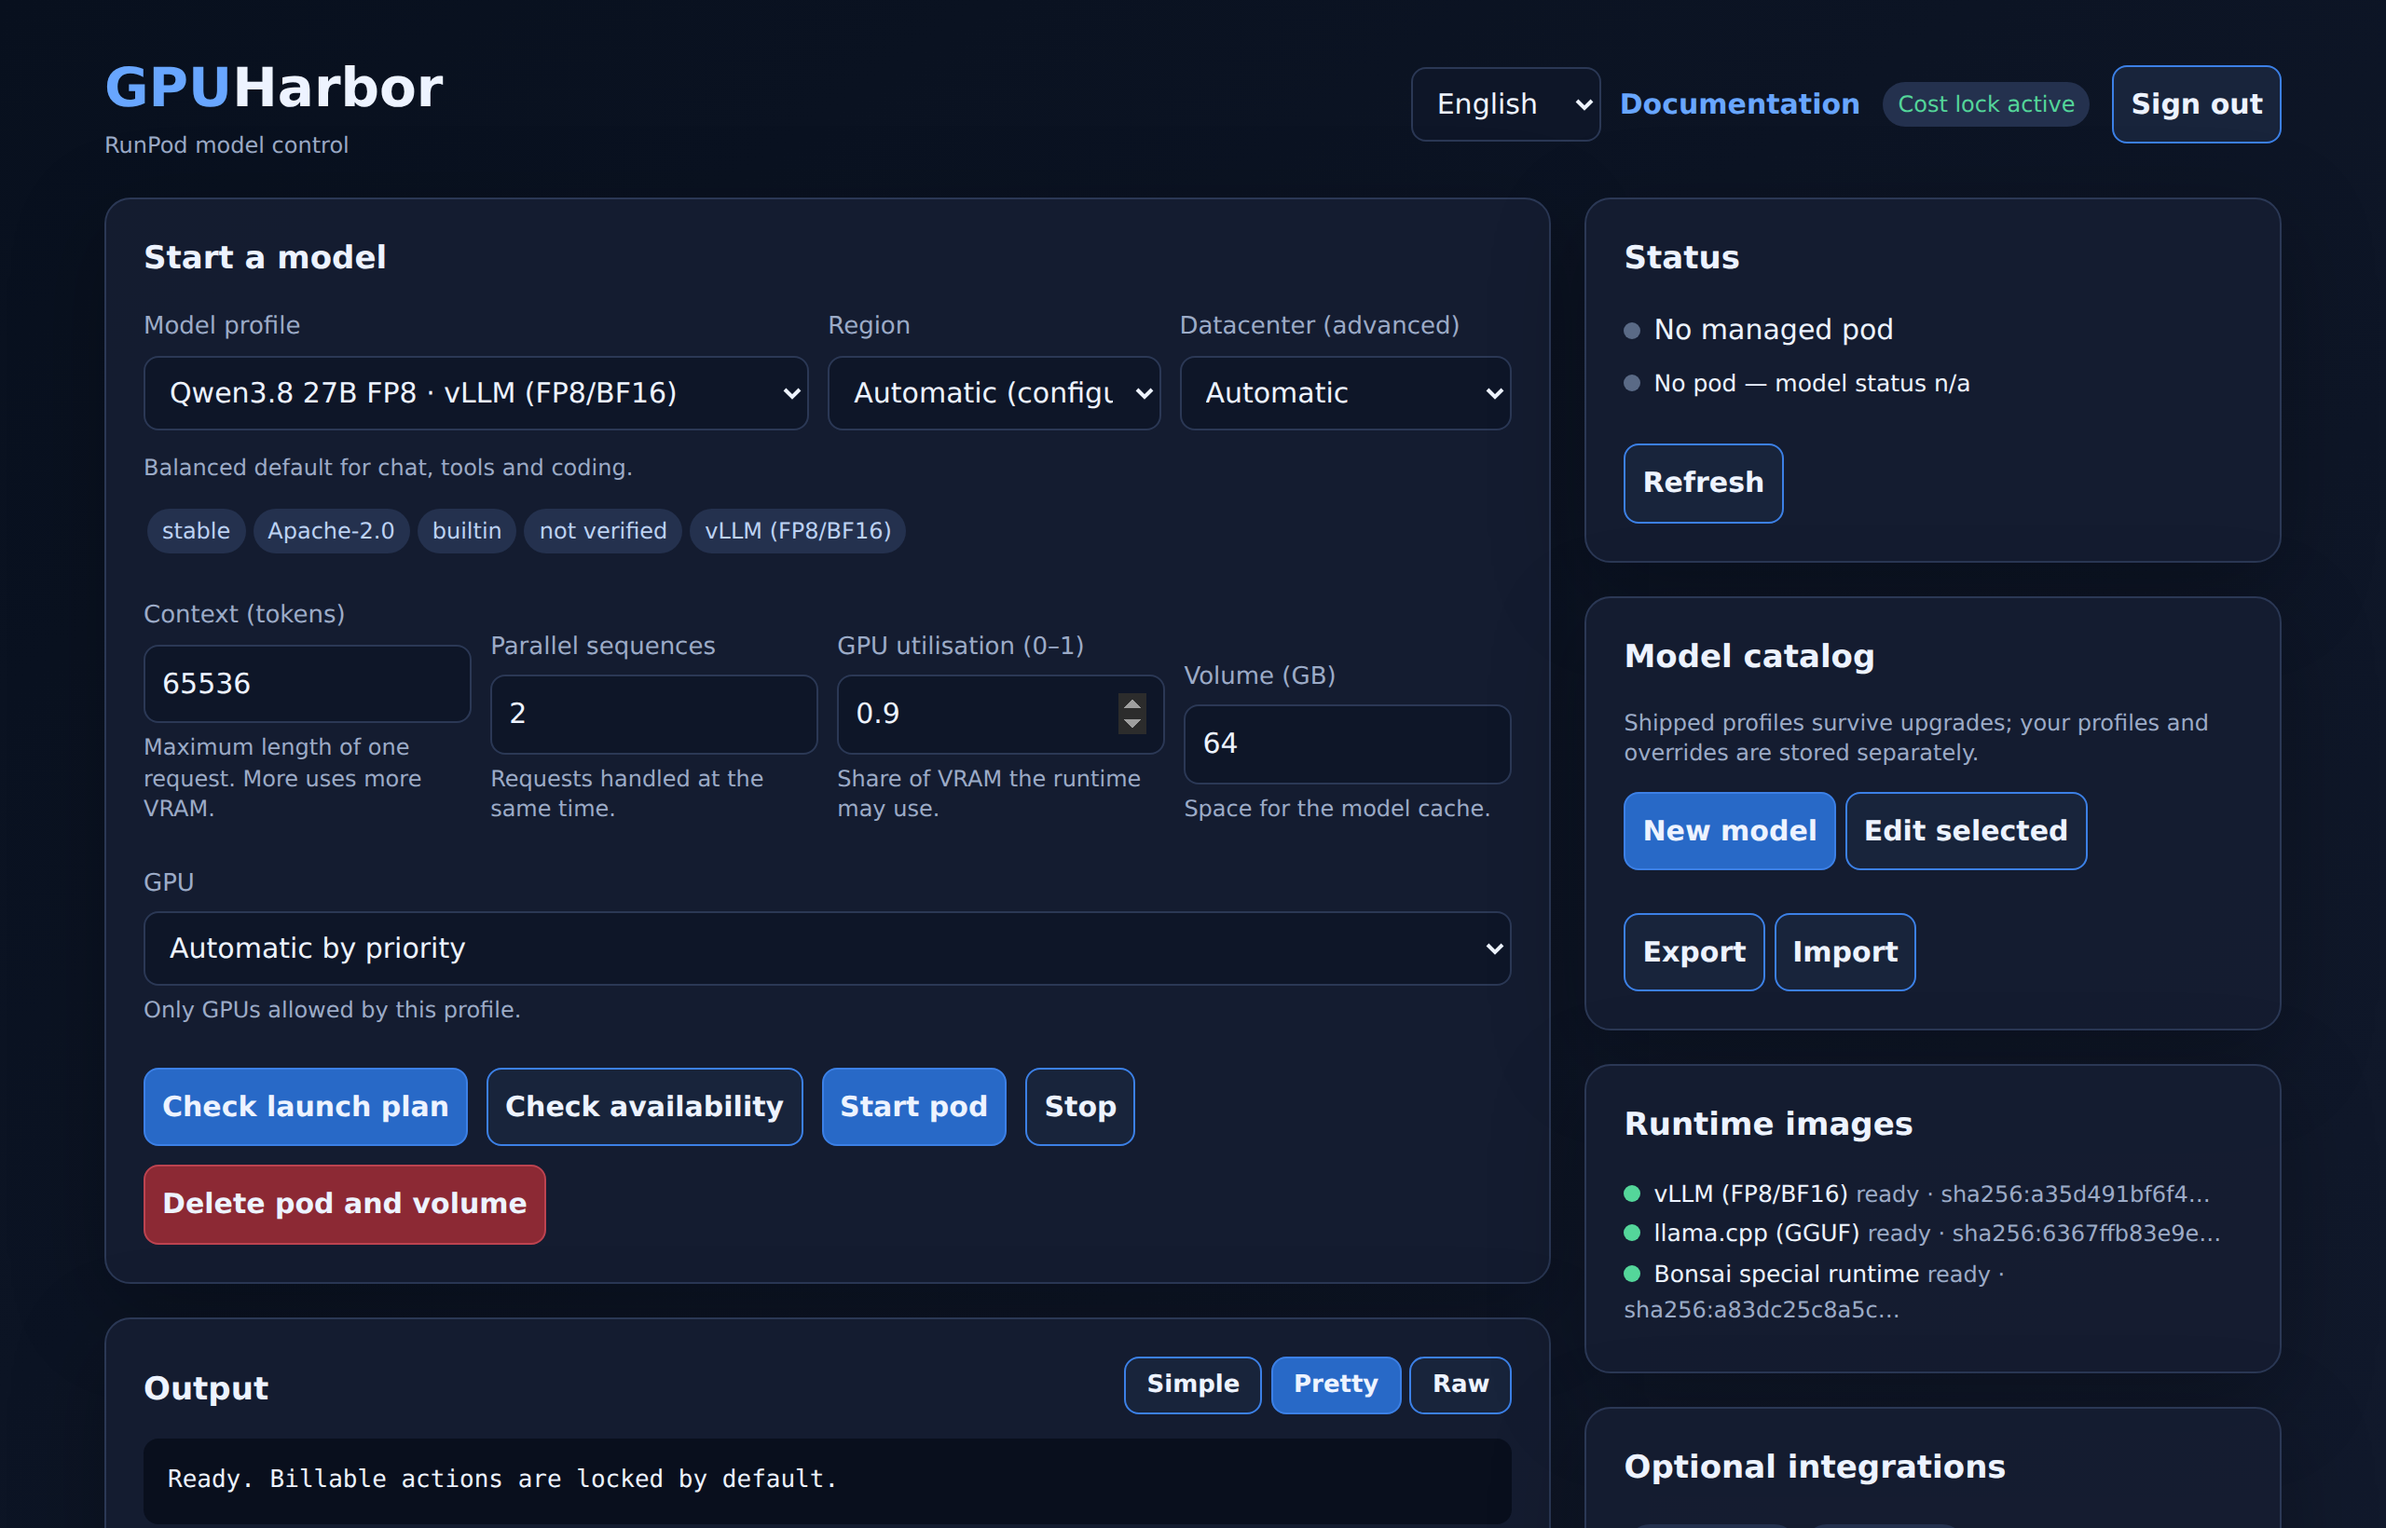
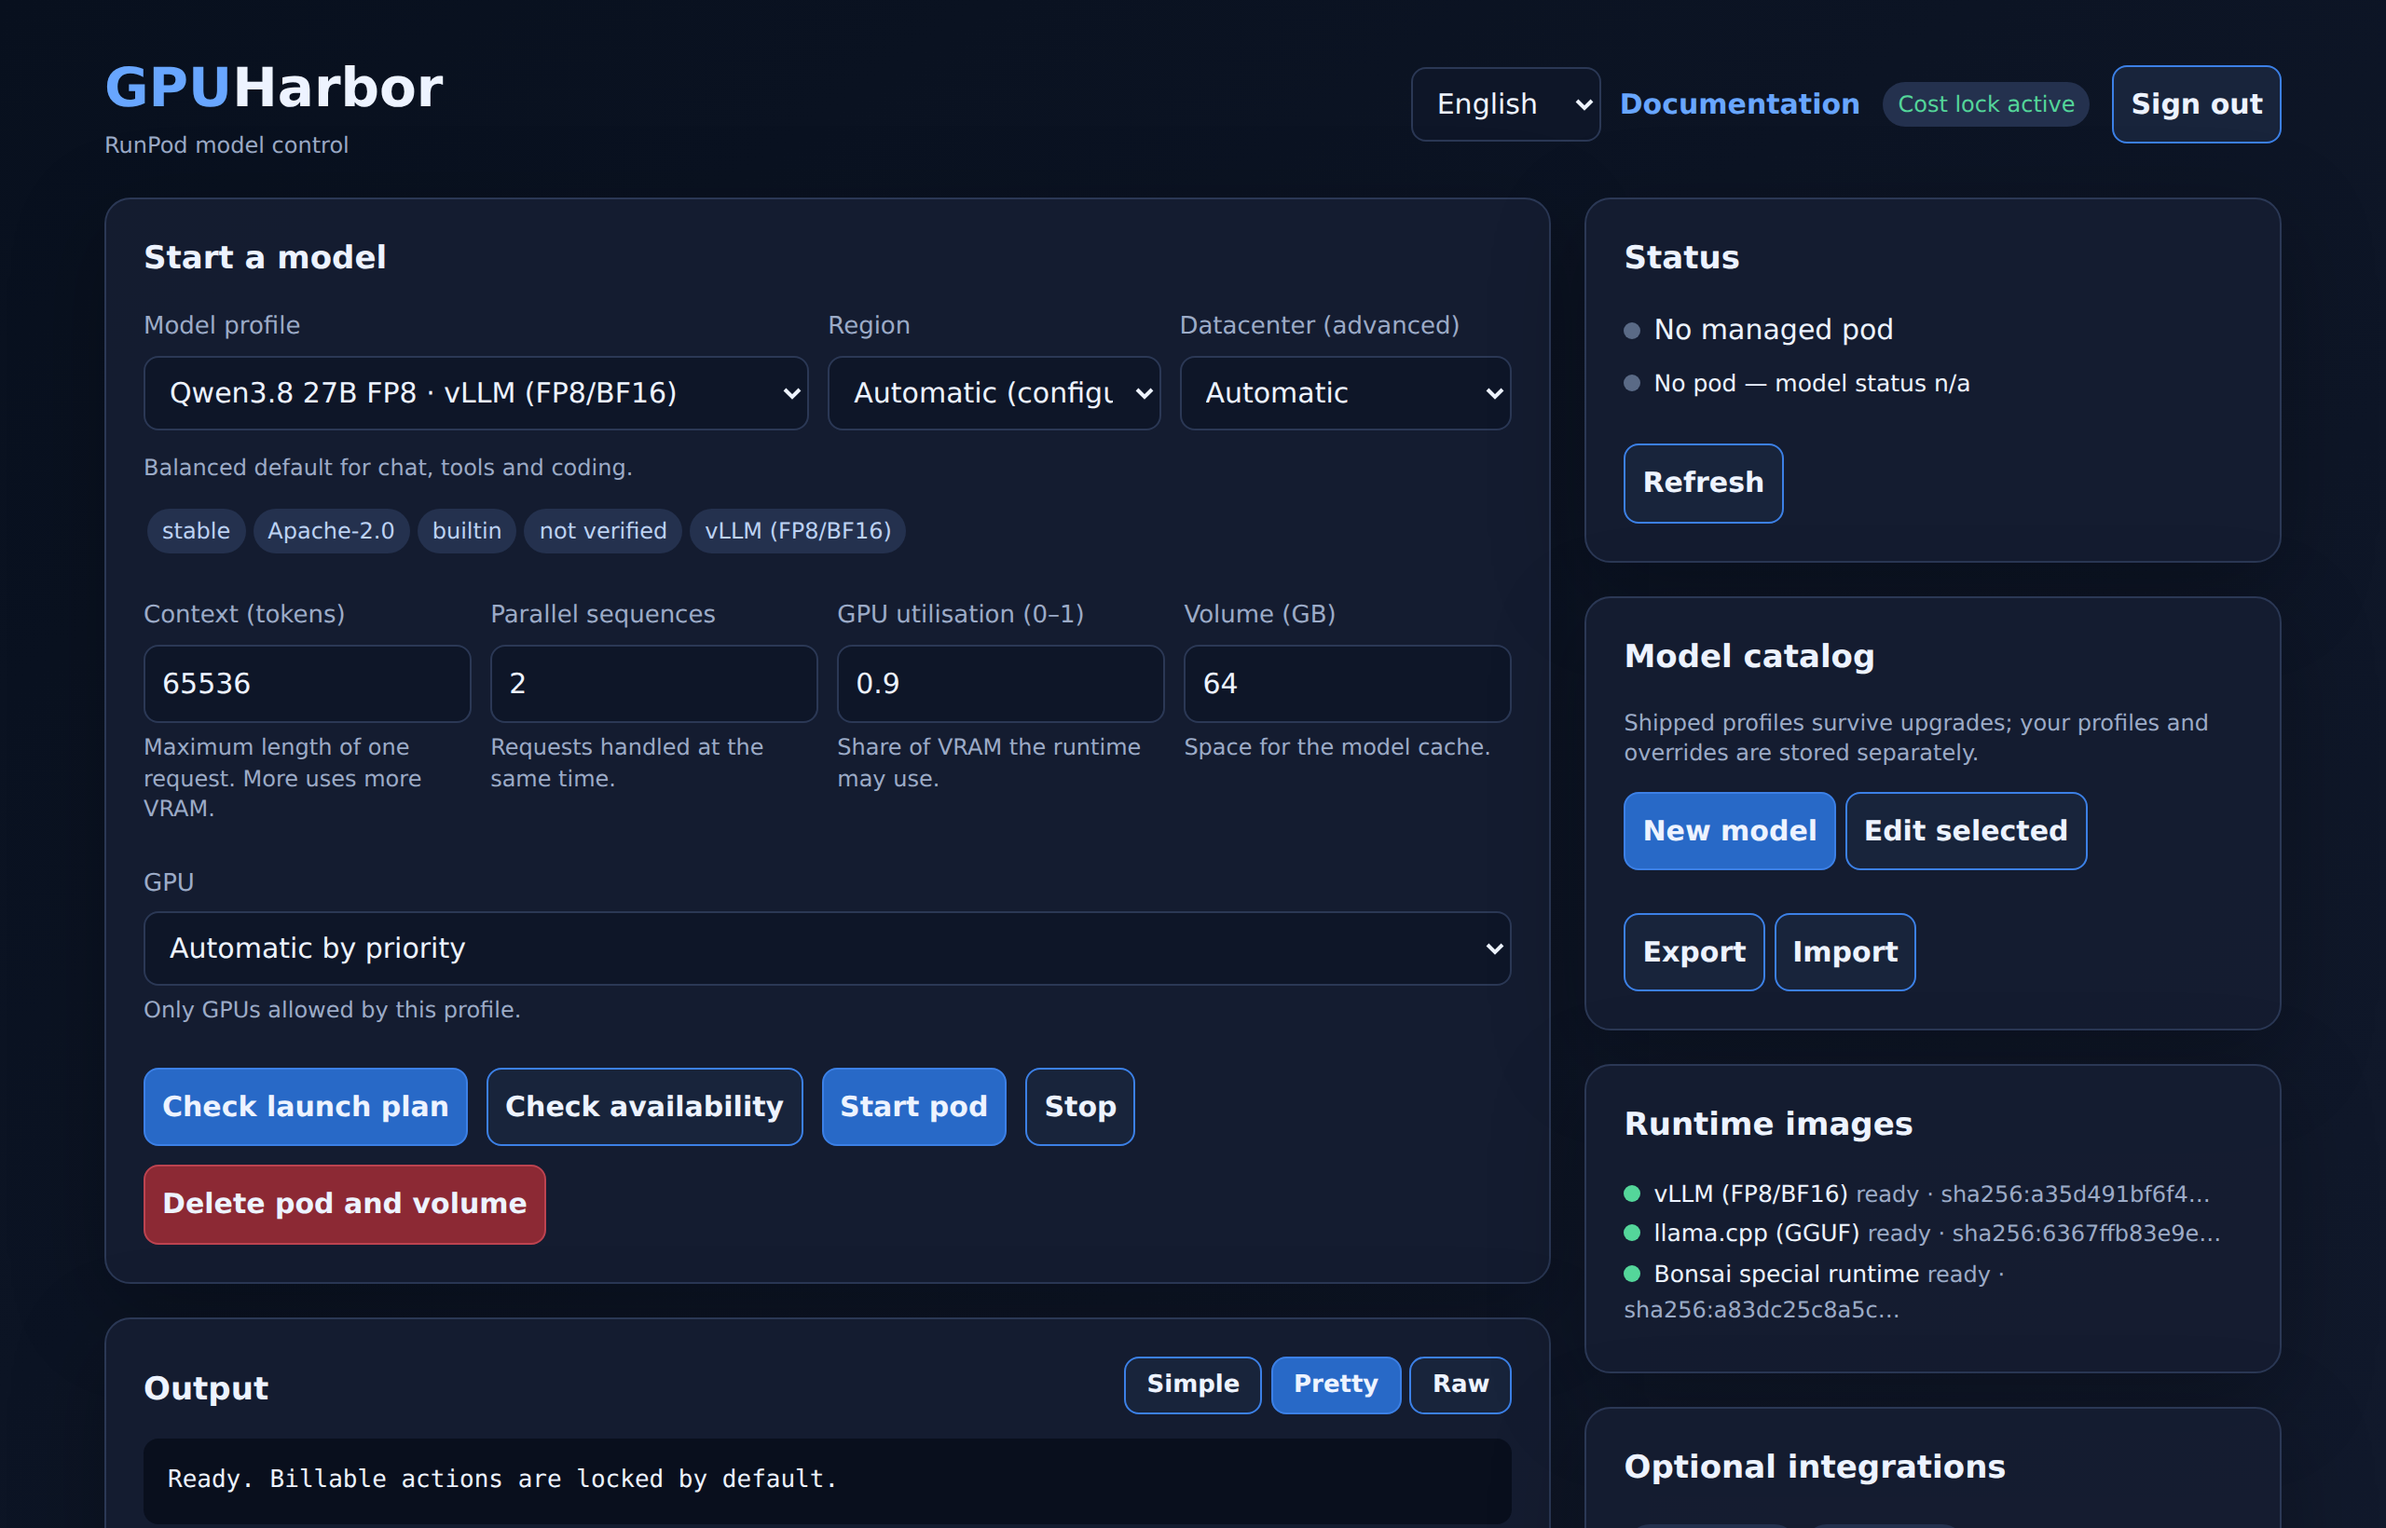
Fix dashboard alignment and two German UI glitches
- Numeric fields share one baseline; the row no longer aligns by the bottom of
  the hint text
- The German delete button showed a literal &amp; because the value is assigned
  with textContent
- Switching language now rebuilds the dynamic option lists and the output
  placeholder, so nothing stays in the previous language
- Fresh screenshots in English and German
- New test: translation values must not contain HTML entities

Changed region(s): [[0.1875, 0.3732, 0.625, 0.5287], [0.1875, 0.3732, 0.3125, 0.4354], [0.5, 0.3732, 0.5625, 0.4043]]

diff --git a/gpuharbor/static/index.html b/gpuharbor/static/index.html
@@ -17,6 +17,8 @@ h2{font-size:17px;margin-top:0}
 .grid{display:grid;grid-template-columns:1.35fr .65fr;gap:18px}
 .card{background:rgba(21,29,49,.94);border:1px solid var(--line);border-radius:14px;padding:20px;margin-bottom:18px;box-shadow:0 14px 50px #0004}
 .row{display:flex;gap:10px;flex-wrap:wrap;align-items:end}
+.row.fields{align-items:flex-start}
+.row.fields .field{align-self:flex-start}
 .field{display:flex;flex-direction:column;gap:5px;flex:1;min-width:150px}
 label{color:var(--muted);font-size:13px}
 .hint{color:var(--muted);font-size:12px;line-height:1.35}
@@ -77,7 +79,7 @@ dialog::backdrop{background:#000a}
   <div class="field"><label for="datacenter" data-i18n="start.datacenter">Datacenter (advanced)</label><select id="datacenter"></select></div>
 </div>
 <p id="model-description" class="hint"></p><div id="badges"></div><br>
-<div class="row">
+<div class="row fields">
   <div class="field"><label for="context" data-i18n="field.context">Context (tokens)</label><input id="context" type="number" min="1024" max="262144" step="1024"><span class="hint" data-i18n="hint.context">Maximum length of one request. More uses more VRAM.</span></div>
   <div class="field"><label for="sequences" data-i18n="field.sequences">Parallel sequences</label><input id="sequences" type="number" min="1" max="32"><span class="hint" data-i18n="hint.sequences">Requests handled at the same time.</span></div>
   <div class="field"><label for="memory" data-i18n="field.memory">GPU utilisation (0–1)</label><input id="memory" type="number" min="0.5" max="0.99" step="0.01"><span class="hint" data-i18n="hint.memory">Share of VRAM the runtime may use.</span></div>
@@ -236,7 +238,7 @@ de:{
  "field.context":"Kontext (Token)","field.sequences":"Parallele Sequenzen","field.memory":"GPU-Nutzung (0–1)","field.volume":"Volume (GB)","field.gpu":"GPU",
  "hint.context":"Maximale Länge einer Anfrage. Mehr braucht mehr VRAM.","hint.sequences":"Gleichzeitig bearbeitete Anfragen.",
  "hint.memory":"Anteil des VRAM, den die Runtime nutzen darf.","hint.volume":"Speicher für den Modell-Cache.","hint.gpu":"Nur GPUs, die dieses Profil erlaubt.",
- "btn.plan":"Startplan prüfen","btn.preflight":"Verfügbarkeit prüfen","btn.start":"Pod starten","btn.stop":"Stoppen","btn.delete":"Pod &amp; Volume löschen",
+ "btn.plan":"Startplan prüfen","btn.preflight":"Verfügbarkeit prüfen","btn.start":"Pod starten","btn.stop":"Stoppen","btn.delete":"Pod & Volume löschen",
  "btn.save":"Speichern","btn.cancel":"Abbrechen","btn.delete_profile":"Profil löschen","btn.reset":"Auf Standard zurücksetzen",
  "lookup.button":"Bei Hugging Face nachsehen","lookup.busy":"Suche läuft …","lookup.found":"Gefunden: ","lookup.failed":"Suche fehlgeschlagen: ","lookup.gguf":"GGUF-Dateien: ",
  "output.title":"Ausgabe","output.simple":"Einfach","output.pretty":"Schön","output.raw":"Roh","output.ready":"Bereit. Kostenpflichtige Aktionen sind standardmäßig gesperrt.","output.wait":"Bitte warten …",
@@ -276,7 +278,13 @@ de:{
 let lang=localStorage.getItem('gh-lang');
 if(!lang)lang=(navigator.language||'en').toLowerCase().startsWith('de')?'de':'en';
 function t(key){const table=I18N[lang]||I18N.en;return table[key]||I18N.en[key]||key}
-function setLang(value){lang=I18N[value]?value:'en';localStorage.setItem('gh-lang',lang);applyLang();render(lastRaw);refreshStatus()}
+function setLang(value){
+  lang=I18N[value]?value:'en';
+  localStorage.setItem('gh-lang',lang);
+  applyLang();
+  // Option labels are built from settings, so they have to be rebuilt too.
+  loadCatalog().then(()=>render(lastKey?t(lastKey):lastRaw)).catch(()=>{});
+}
 function applyLang(){
   document.documentElement.lang=lang;
   document.querySelectorAll('[data-i18n]').forEach(el=>{el.textContent=t(el.dataset.i18n)});
@@ -286,7 +294,7 @@ function applyLang(){
   updateBillablePill();
 }
 
-let models={},runtimes={},settingsData={},gpuOptions=[],regions=[],presets={},csrfToken='',podActive=false,lastRaw='';
+let models={},runtimes={},settingsData={},gpuOptions=[],regions=[],presets={},csrfToken='',podActive=false,lastRaw='',lastKey=null;
 let mode='pretty';
 const $=id=>document.getElementById(id), output=$('output'), editor=$('editor');
 
@@ -304,6 +312,7 @@ function updateBillablePill(){
   $('billable-pill').textContent=on?t('pill.billable_on'):t('pill.billable_off');
   $('billable-pill').className='pill '+(on?'danger-text':'ok');
 }
+function showMessage(key){lastKey=key;render(t(key))}
 function setMode(m){mode=m;for(const n of ['simple','pretty','raw'])$('mode-'+n).classList.toggle('active',n===m);render(lastRaw)}
 function render(text){
   lastRaw=text;
@@ -332,20 +341,21 @@ function summarize(text){
   return text;
 }
 async function action(path,method='POST',body=null){
-  render(t('output.wait'));
+  showMessage('output.wait');
   try{
     const data=await api(path,{method,body:body?JSON.stringify(body):undefined});
+    lastKey=null;
     render(typeof data==='string'?data:JSON.stringify(data));
     await refreshStatus();
     return data;
-  }catch(err){render(t('msg.error')+err.message);return null}
+  }catch(err){lastKey=null;render(t('msg.error')+err.message);return null}
 }
 $('login-form').onsubmit=async e=>{e.preventDefault();
   try{await api('/api/login',{method:'POST',body:JSON.stringify({username:$('username').value,password:$('password').value})});await boot()}
   catch(err){$('login-error').textContent=t('login.failed')+' '+err.message}};
 async function boot(){
   applyLang();
-  render(t('output.ready'));
+  showMessage('output.ready');
   const me=await api('/api/me');
   if(!me.authenticated)return;
   csrfToken=me.csrf_token;

diff --git a/tests/test_dashboard_markup.py b/tests/test_dashboard_markup.py
@@ -35,6 +35,16 @@ def test_both_dictionaries_define_the_same_keys():
     assert english == german, f"only in English: {sorted(english - german)}, only in German: {sorted(german - english)}"
 
 
+def test_dictionary_values_contain_no_html_entities():
+    """Values are assigned with textContent, so entities would show up literally."""
+    import re
+
+    html = read("index.html")
+    body = html.split("const I18N=", 1)[1].split("let lang=", 1)[0]
+    bad = re.findall(r'"[a-z][a-z0-9_.]+":"[^"]*&(?:amp|nbsp|lt|gt|quot);[^"]*"', body)
+    assert not bad, f"HTML entities in translation values: {bad}"
+
+
 def test_dashboard_element_references_resolve():
     html = read("index.html")
     ids = set(re.findall(r'\bid="([^"]+)"', html))

diff --git a/CHANGELOG.md b/CHANGELOG.md
@@ -4,6 +4,10 @@ All notable changes will be documented here once releases begin.
 
 ## Unreleased
 
+- Align the numeric fields in the start panel so all four inputs share one line.
+- Fix a literal `&amp;` on the German delete button and re-render option lists
+  when the language changes.
+
 - Added the GPUHarbor controller, authenticated dashboard and OpenAI-compatible proxy.
 - Added versioned, update-safe built-ins, custom profiles, overrides, reset,
   import/export, automatic legacy migration and launch-time resource overrides.
